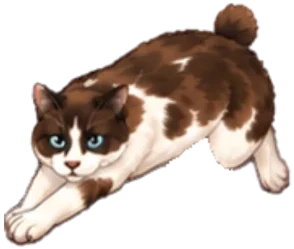
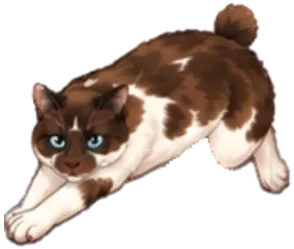
Moonpie's nose painted brown in three poses, and her bobtail on the diving one
moonpie-low, -bound and -dive had a white muzzle and pink nose she doesn't have;
moonpie-dive also had a long tail, now crouch2's bobtail.

Claude-Session: https://claude.ai/code/session_0122u3njXnd8zLRFBxLdHA43

Changed region(s): [[0.1531, 0.506, 0.3367, 0.7028]]

diff --git a/IDEAS.md b/IDEAS.md
@@ -159,7 +159,7 @@ Around games 9 to 11, Curious Cat reaches 13 or 14 games: the time to decide on 
 | Bubbles (bubble shooter) | Kitten Play | Bat bubbles up to pop three of a kind | — | Bubbles chat | Built | |
 | Copycat (Memory) | Kitten Play | Find the pairs of toys hidden in boxes | — | Fair Play chat | Built | |
 | Cat Pile (Blockudoku, Block Blast) | Kitten Play | Place clumps of napping cats on a 9 × 9 blanket; full rows, columns and cushions clear | — | Idea list, Game Suite chat, wordleunlimited | Built | Every shape is straight Sunbeams cats on one coloured blanket (a T is a 3-long cat and a 2-long cat), since drawn cats bent into an L or T came out wrong; cats in shaped boxes were tried and dropped. Levels have toys on the blanket to collect, as in Block Blast's goals; Zen never ends. Falling blocks (Tetris) became L-M-N-O-Pom, with letters and words in place of shapes and rows |
-| Moonpurrs (rhythm game) | On the Prowl | Moonpie purrs herself to sleep and goes to dreamland to gather more purrs: hop from cloud to cloud in time with her purr, each hop on the beat gathering a purr; when the level's purrs are gathered, her purr sputters out into little snores | None | Moonpie's human, via the owner | Idea | Shortlist. Starring Moonpie. Moonpie's human (2026-11-13): she purrs a lot, loud enough to hear from the next room, wakes, sees you're there and purrs about it, and purrs herself to sleep until it "sputters out into little snores", and they joke she's "gone to dreamland to jump between the clouds gathering more purrs". The owner: "the rhythm game I think we want"; it replaces Making Biscuits. Moonpurrs is her human's own word for her purrs (the name isn't picked yet). The owner has purrs and snores of hers recorded, not in `cats/` yet (her purr loop from Swap-a-Pom is). A real purr keeps time by her breathing, in and out, not a steady beat, so the beats have to be marked in each recording (tapped along by hand, or found from the loudness) and the clouds set on them; the in-purr and out-purr could be two kinds of cloud. Gentle, as she is: a missed beat makes a little snore and she drifts down a cloud, never a fall. Her `moonpie-leap` and `-crouch` poses would do the hops and landings; `-bound` and `-low` have a white nose she doesn't have, so they'd need fixing first (`ARTWORK.md`) |
+| Moonpurrs (rhythm game) | On the Prowl | Moonpie purrs herself to sleep and goes to dreamland to gather more purrs: hop from cloud to cloud in time with her purr, each hop on the beat gathering a purr; when the level's purrs are gathered, her purr sputters out into little snores | None | Moonpie's human, via the owner | Idea | Shortlist. Starring Moonpie. Moonpie's human (2026-11-13): she purrs a lot, loud enough to hear from the next room, wakes, sees you're there and purrs about it, and purrs herself to sleep until it "sputters out into little snores", and they joke she's "gone to dreamland to jump between the clouds gathering more purrs". The owner: "the rhythm game I think we want"; it replaces Making Biscuits. Moonpurrs is her human's own word for her purrs (the name isn't picked yet). The owner has purrs and snores of hers recorded, not in `cats/` yet (her purr loop from Swap-a-Pom is). A real purr keeps time by her breathing, in and out, not a steady beat, so the beats have to be marked in each recording (tapped along by hand, or found from the loudness) and the clouds set on them; the in-purr and out-purr could be two kinds of cloud. Gentle, as she is: a missed beat makes a little snore and she drifts down a cloud, never a fall. Her `moonpie-leap`, `-bound`, `-crouch` and `-low` poses would do the hops and landings |
 | Fruit Ninja-style, Angry Birds-style | On the Prowl | Swipe at flying things; fling things at a structure | None | Idea list | Idea | |
 | Paw-ball (pinball) | On the Prowl | Pinball with cat paws for flippers and springs for bumpers (the end-on springs make round ones) | None | Owner, Wind Up chat | Idea | Shortlist. Real-time, and flippers need moving pieces, which Wind Up's physics doesn't have yet. Cat theme picked: Paw-ball (the name stays), a playroom table with paws for flippers, springs for bumpers, cardboard-box ramps and toy mice to hit |
 | Spring Toss | On the Prowl | Toss a spring, pounce on it, and it boings off about the room | None | Owner, Boing! chat | Idea | The owner, 2026-11-13: "the fun thing to do with the springs is to toss them and pounce on them and they spring about." Could use the springs cut from the owner's sheet for Boing! (`toys/sheets/springs.webp`) |

diff --git a/ARTWORK.md b/ARTWORK.md
@@ -96,9 +96,10 @@ Bed Hog has no star cat yet: `c14-29` (a ginger cat on its back) sleeps beside i
   **Her nose is NOT white, and she has a bobtail** (the owner, 2026-11-13). Her face is brown down to the nose, with a little
   white blaze between the eyes that stops above it, and her tail is a short round pompom. Any picture of her with a white
   nose or a long tail is wrong: check every new one, and say so if the owner missed it ("I will gladly be corrected").
-  Of the seven, `-sit`, `-crouch`, `-crouch2` and `-leap` are right. Three are wrong: `-low` and `-bound` have the blaze
-  running down to a white muzzle and pink nose, and `-dive` has both a white nose and a long tail. `-low` is in Swap-a-Pom
-  (see `TODO.md`); don't use any of the three until they're fixed or redrawn.
+  Three of the seven came off the sheet wrong and were fixed by hand on 2026-11-13: `-low`, `-bound` and `-dive` had the
+  blaze running down to a white muzzle and pink nose, now painted brown from the fur around them (her nose a rosy brown,
+  as in `-sit`), and `-dive` had a long tail, now cut off at the rump and replaced with `-crouch2`'s bobtail. The
+  originals are in the git history if a fix ever needs redoing.
   **Her personality:** she cuddles you and keeps you company while you play games (the owner, 2026-11-13: very sweet; have
   that come through). So she's a companion, never a cat who bats things away or chases: she purrs, blinks slowly, leans on
   you and is proud of you. She's the star of Swap-a-Pom (in beta): `moonpie-sit` beside the title; `moonpie-low` lying along

diff --git a/TODO.md b/TODO.md
@@ -128,8 +128,6 @@ the front page):
 - the owner hears the purr on a phone: whether the soft purr while playing is too loud or too quiet (`purring.base`), and
   whether Moonpie should tremble a little the whole time it's on (offered, not asked for yet). On an iPhone the silent
   switch mutes it;
-- Moonpie on the tray's edge, `moonpie-low`, has a white nose, which she doesn't have (the owner, 2026-11-13; see
-  `ARTWORK.md`): paint her nose and muzzle brown, have the owner redraw the pose, or lay a right pose along the rim;
 - then move its row from `BETA` to `GAMES` (with the date it joins) and take out its `noindex` line.
 
 ## Boing!: the preview, waiting to be made
